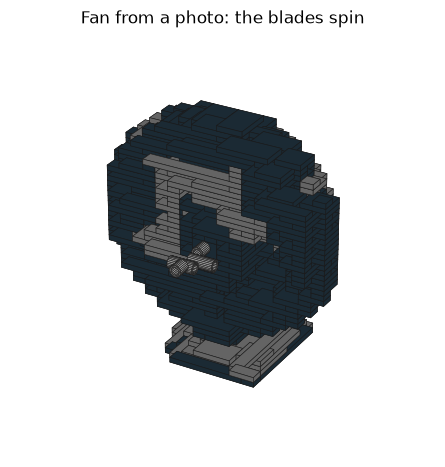
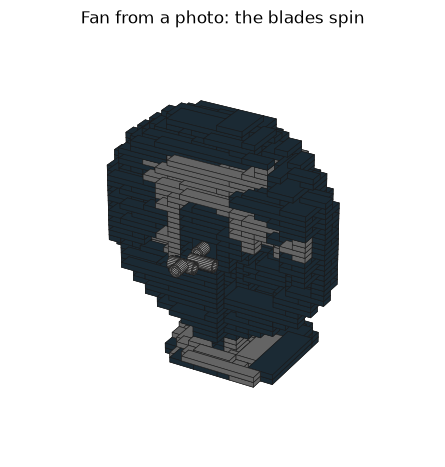
README: fan result across runs, honest limits (photo depth, rotor size, Spark variance)

diff --git a/README.md b/README.md
@@ -17,7 +17,7 @@ models: **SAM 3.1**, **SAM 3D**, **Muse Spark** and **Muse Glimmer** (fine-tuned
 
 **The fan was never in training.** Spark looked at the photo and said "the blades spin, on a horizontal axis, at
 the front of the head"; Glimmer set a Technic bearing into the head's face, put an axle through it and locked arms
-on it, **first try**; code checked that every part is real and held, the arms turn all the way round without
+on it, **first try** (5 of 5 runs on two fan photos); code checked that every part is real and held, the arms turn all the way round without
 touching anything, and the fan still stands. Same models and code as the cars.
 
 
@@ -121,3 +121,7 @@ chain script and results are in `runs/rN_chain.sh` and `fireworks-training-runs/
   part over instead of removing what is in the way). The fix is more generic data on irregular bodies, not a patch.
 - Very large models are not always certifiable step by step (an airliner fuselage overhangs the table).
 - Colours come from the SAM 3D mesh texture, which can wash out dark liveries.
+- One photo gives limited depth: a wind turbine from a flat painting came out 3-5 studs deep, with no room for a
+  rotor bearing (reported, not built). Rotor arms are the trained 2-stud size, smaller than real fan blades.
+- Spark's part naming varies from run to run; on one desk-fan run it split the blades into several regions with no
+  buildable spot.
